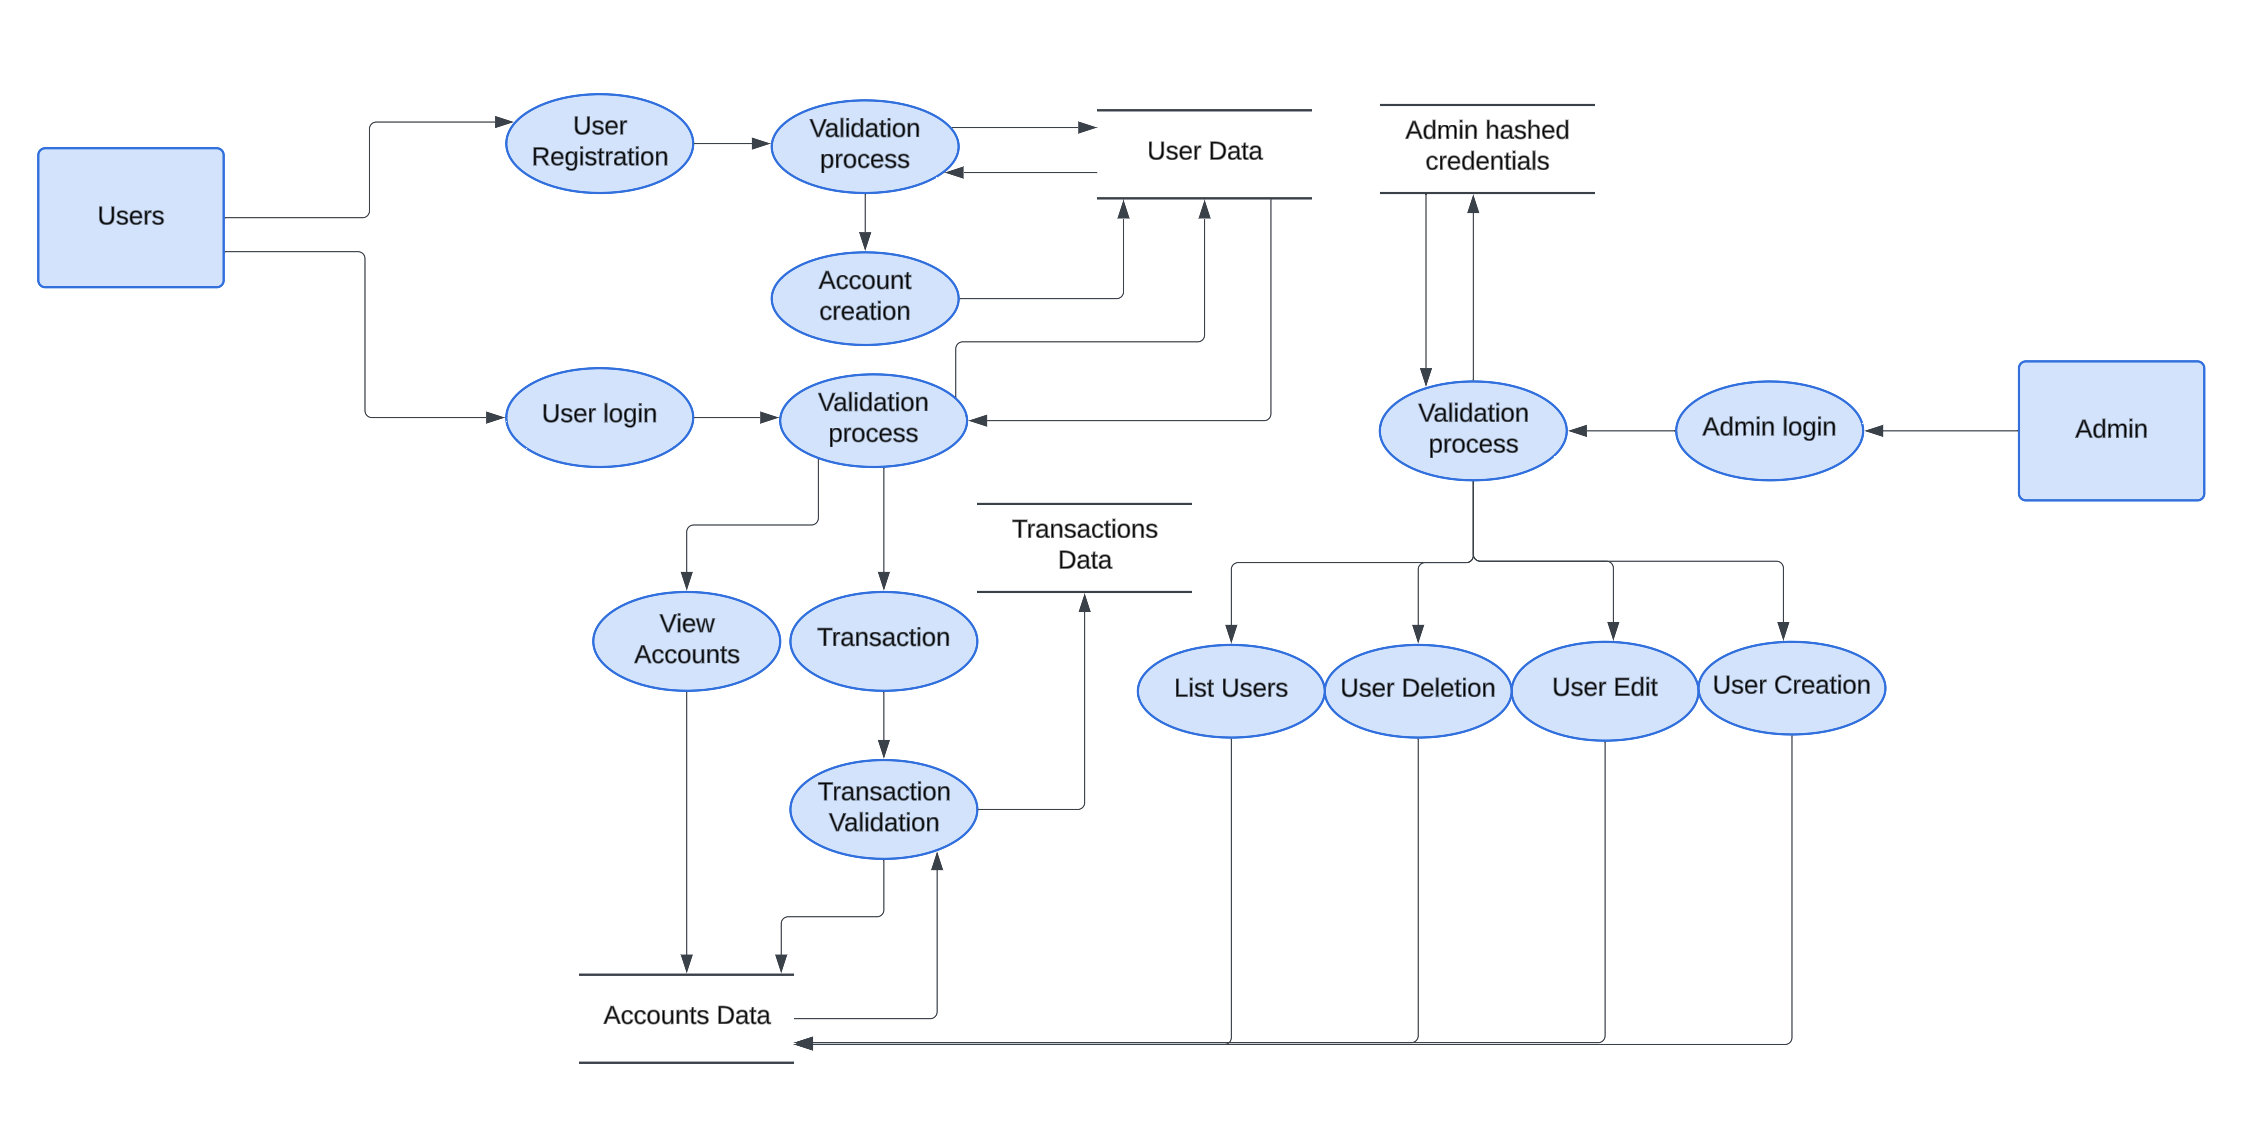
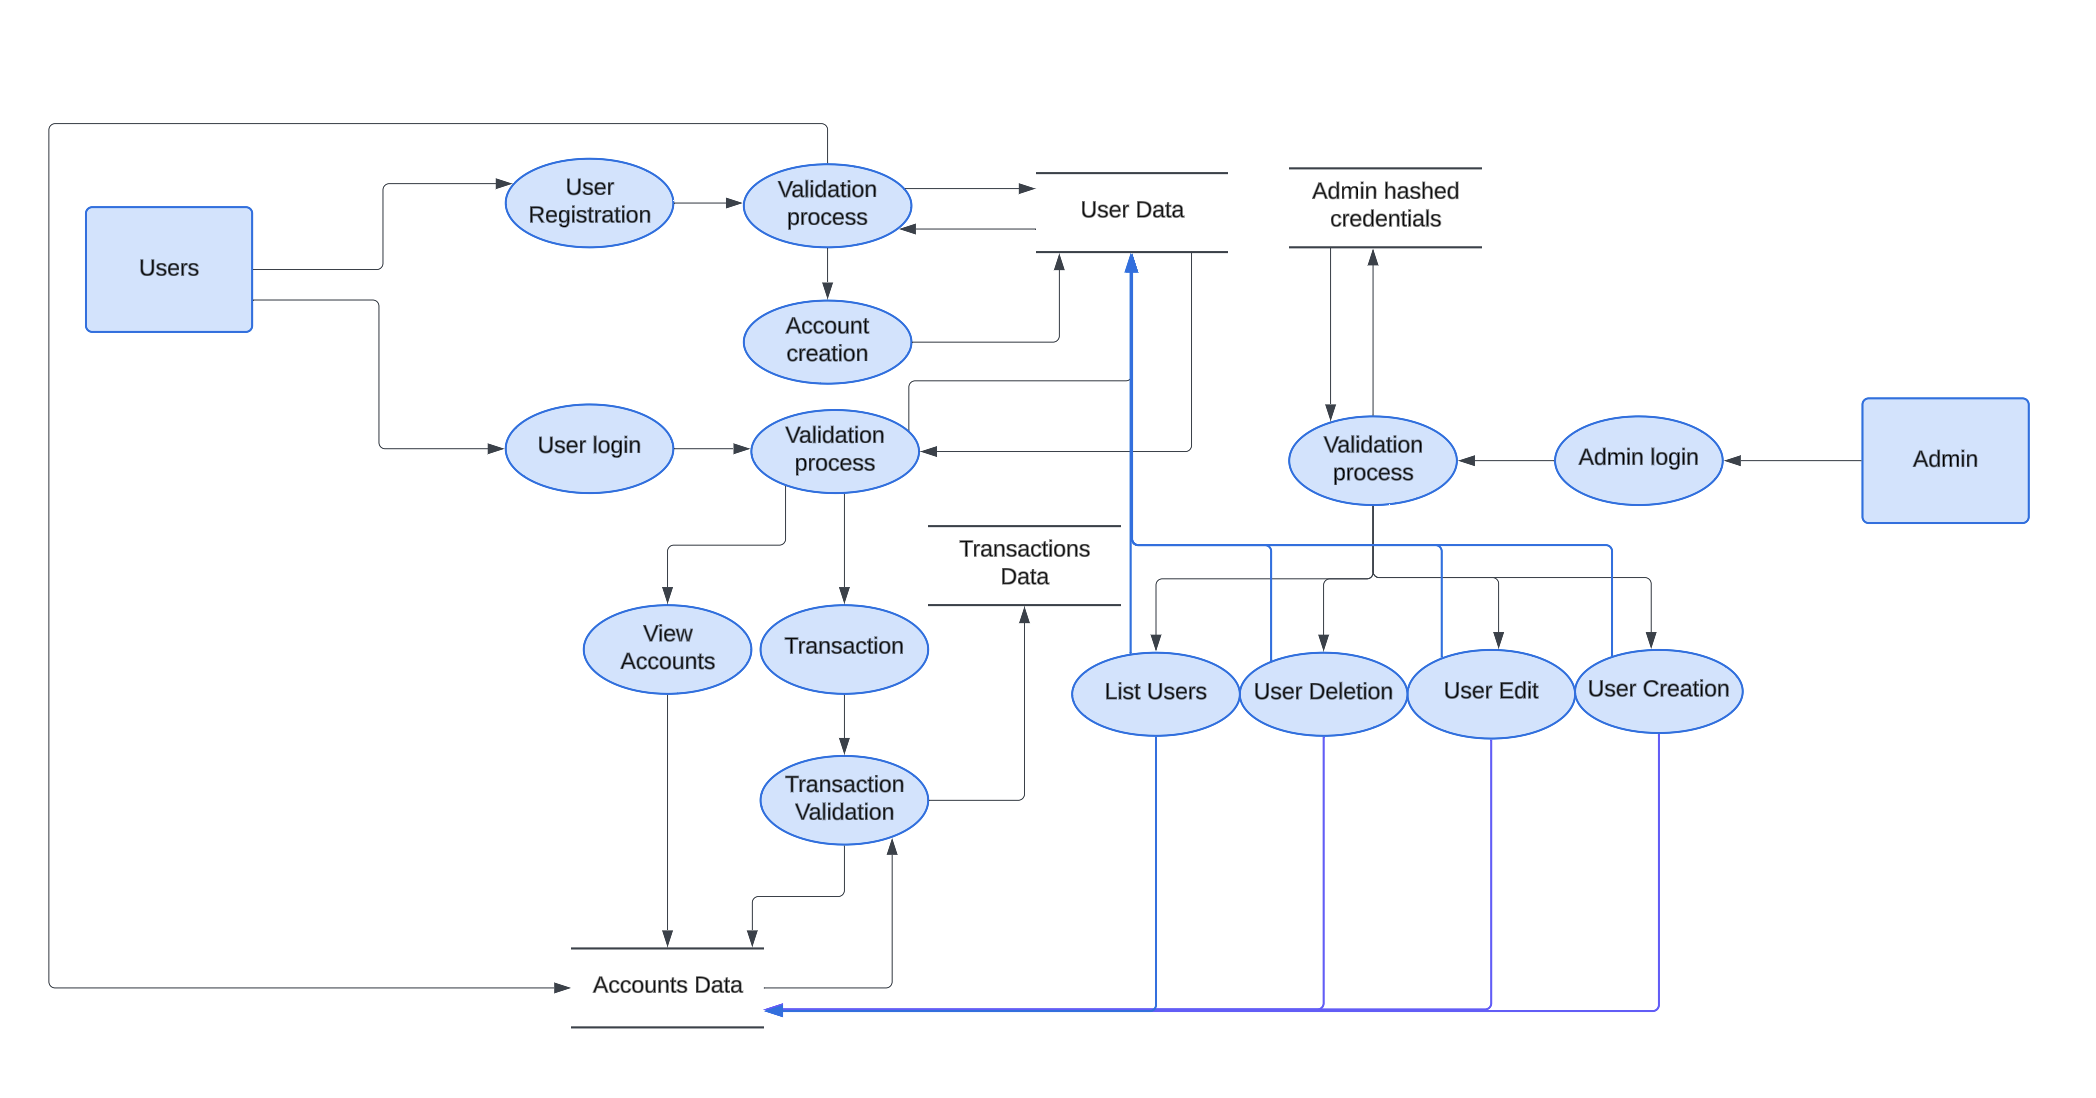
changy

diff --git a/docs/data-flow-diagram.md b/docs/data-flow-diagram.md
@@ -9,14 +9,13 @@ This data flow diagram follows the standard rules of a Data Flow Diagram (DFD):
 
 The diagram demonstrates how data moves through the system while maintaining clarity and simplicity.
 
-
 ---
 
 ## **1. Users' Interactions**
 ### 👤 **1.1 User Registration**
 - **Process**: Users initiate the registration process.
 - **Validation**: Submitted data undergoes a validation process to ensure accuracy and completeness.
-- **Outcome**: Successful validation results in account creation and storage of user data.
+- **Outcome**: Successful validation results in account creation, storing user data, and updating accounts data to link new accounts to users.
 
 ### 🔐 **1.2 User Login**
 - **Process**: Users input their credentials to log in.
@@ -44,13 +43,13 @@ The diagram demonstrates how data moves through the system while maintaining cla
 ### 📂 **2.2 Administrative Functions**
 Admin tasks include:
 - **List Users**: Retrieve and display user details.
-- **User Deletion**: Remove a user from the system.
-- **User Edit**: Update user details.
-- **User Creation**: Manually create a new user account.
+- **User Deletion**: Remove a user from the system and update user data.
+- **User Edit**: Update user details in the user database.
+- **User Creation**: Manually create a new user account and update user data.
 
 #### 🔒 **Data Handling**:
 - Admin actions are validated and logged for security.
-- Changes affect the respective accounts data stored in the system.
+- Changes affect the respective user data and accounts data stored in the system.
 
 ---
 
@@ -61,7 +60,7 @@ Admin tasks include:
 
 ### 📚 **3.2 Data Handling**
 - **User Data**: Stores user credentials and account information.
-- **Accounts Data**: Holds details of all user accounts.
+- **Accounts Data**: Holds details of all user accounts, updated during registration and transactions.
 - **Transactions Data**: Maintains records of completed transactions.
 
 ### 📊 **3.3 Monitoring and Feedback**
@@ -84,5 +83,3 @@ Admin tasks include:
 - 🔴 **Efficient monitoring** for system optimization.
 
 ---
-
-Let me know if you need further enhancements or adjustments! 🚀
